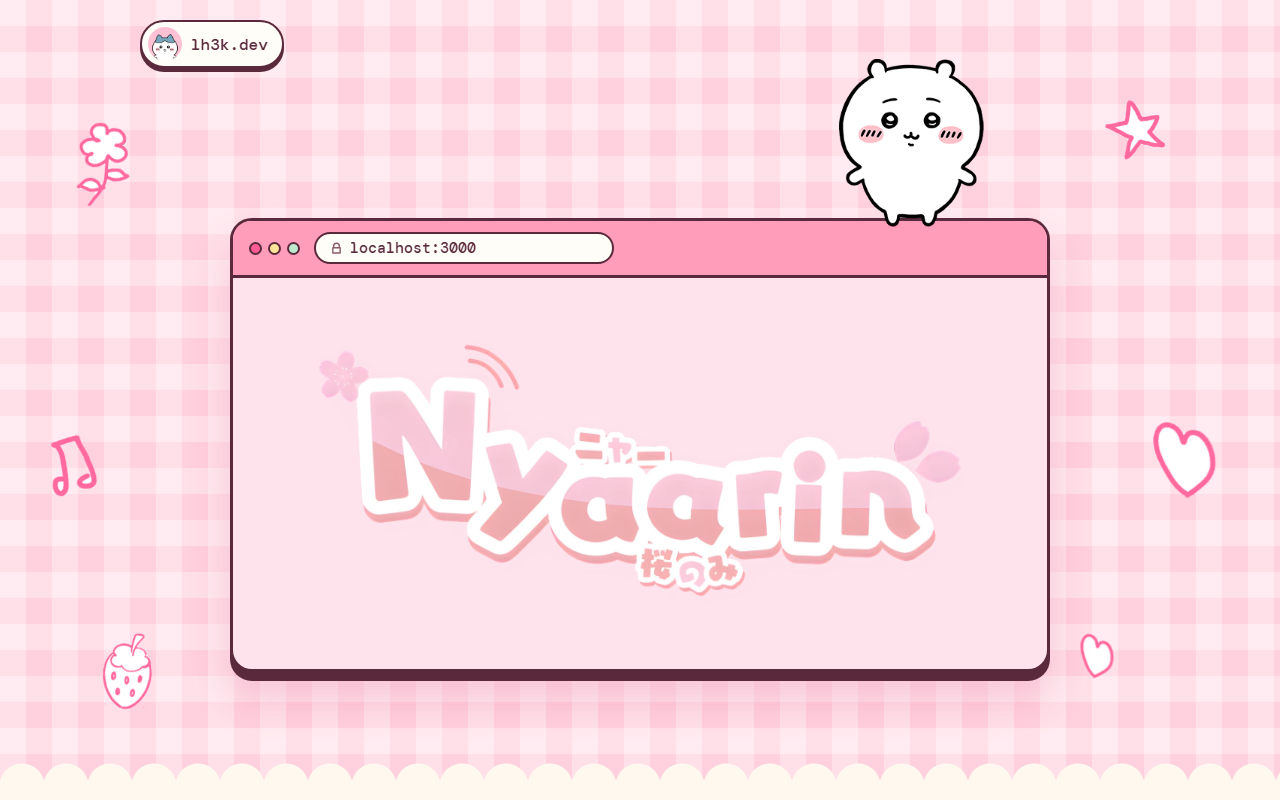
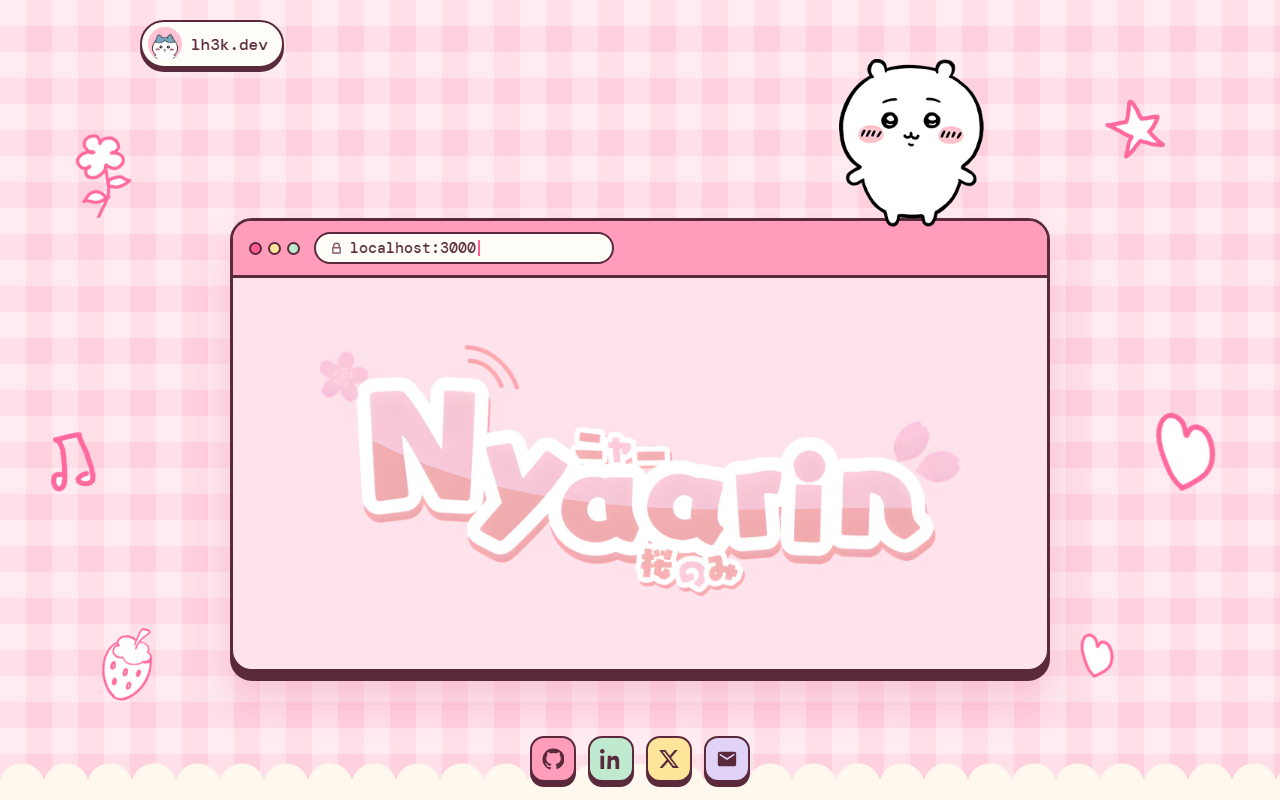
Add where I've worked, and a dock of links that stays on screen
Jobs open like browser tabs in one window. The dock is the sticky icon footer from my old site, in this site's style.

diff --git a/index.html b/index.html
@@ -155,6 +155,87 @@
     <p class="more"><a href="https://github.com/Nyaughh?tab=repositories">Everything else is on GitHub</a></p>
   </section>
 
+  <section class="work" id="work" aria-labelledby="workTitle">
+    <h2 class="title" id="workTitle">Where I've worked</h2>
+    <div class="window jobs" id="jobs">
+      <div class="tabs">
+        <span class="dots" aria-hidden="true"><i></i><i></i><i></i></span>
+        <div class="tablist" role="tablist" aria-labelledby="workTitle">
+          <button type="button" role="tab" id="tab-1" aria-controls="job-1" aria-selected="true">Extraordinary</button>
+          <button type="button" role="tab" id="tab-2" aria-controls="job-2" aria-selected="false" tabindex="-1">Komorebi</button>
+          <button type="button" role="tab" id="tab-3" aria-controls="job-3" aria-selected="false" tabindex="-1">Paragon</button>
+          <button type="button" role="tab" id="tab-4" aria-controls="job-4" aria-selected="false" tabindex="-1">Synthesized Infinity</button>
+        </div>
+      </div>
+      <div class="job" role="tabpanel" id="job-1" aria-labelledby="tab-1">
+        <div class="bar light"><a class="url" href="https://extraordinary.com"><svg viewBox="0 0 16 16" width="13" height="13" aria-hidden="true"><path d="M4.5 7V5a3.5 3.5 0 0 1 7 0v2M3.5 7h9v6.5h-9z" fill="none" stroke="currentColor" stroke-width="1.7" stroke-linejoin="round" stroke-linecap="round"/></svg><span>extraordinary.com</span></a></div>
+        <div class="job-body">
+          <div class="job-head">
+            <p class="job-at">Extraordinary</p>
+            <h3>Software Development Engineer</h3>
+            <p class="when">Sep 2025 – Present</p>
+          </div>
+          <ul>
+            <li>Built features for marketing, legal and invoicing platforms</li>
+            <li>Built automations across platforms with CRM integrations and APIs</li>
+            <li>Improved UI/UX and functionality of the platforms</li>
+          </ul>
+        </div>
+      </div>
+      <div class="job" role="tabpanel" id="job-2" aria-labelledby="tab-2">
+        <div class="bar light"><a class="url" href="https://kmrb.tech"><svg viewBox="0 0 16 16" width="13" height="13" aria-hidden="true"><path d="M4.5 7V5a3.5 3.5 0 0 1 7 0v2M3.5 7h9v6.5h-9z" fill="none" stroke="currentColor" stroke-width="1.7" stroke-linejoin="round" stroke-linecap="round"/></svg><span>kmrb.tech</span></a></div>
+        <div class="job-body">
+          <div class="job-head">
+            <p class="job-at">Komorebi</p>
+            <h3>Founder</h3>
+            <p class="when">Oct 2024 – Present</p>
+          </div>
+          <ul>
+            <li>Komorebi is a software development agency</li>
+            <li>Managed and guided multiple projects for a variety of clients</li>
+            <li>Oversaw the planning and completion of both client and in-house software products</li>
+          </ul>
+        </div>
+      </div>
+      <div class="job" role="tabpanel" id="job-3" aria-labelledby="tab-3">
+        <div class="bar light"><a class="url" href="https://prgn.gg"><svg viewBox="0 0 16 16" width="13" height="13" aria-hidden="true"><path d="M4.5 7V5a3.5 3.5 0 0 1 7 0v2M3.5 7h9v6.5h-9z" fill="none" stroke="currentColor" stroke-width="1.7" stroke-linejoin="round" stroke-linecap="round"/></svg><span>prgn.gg</span></a></div>
+        <div class="job-body">
+          <div class="job-head">
+            <p class="job-at">Paragon</p>
+            <h3>Web Developer</h3>
+            <p class="when">Nov 2024 – Jan 2025</p>
+          </div>
+          <ul>
+            <li>Paragon is the community manager at Discord for VALORANT</li>
+            <li>Planned, designed and developed Valdle, an online game for the VALORANT community</li>
+            <li>Led the team for the website's development and launch</li>
+          </ul>
+        </div>
+      </div>
+      <div class="job" role="tabpanel" id="job-4" aria-labelledby="tab-4">
+        <div class="bar light"><span class="url"><svg viewBox="0 0 16 16" width="13" height="13" aria-hidden="true"><path d="M4.5 7V5a3.5 3.5 0 0 1 7 0v2M3.5 7h9v6.5h-9z" fill="none" stroke="currentColor" stroke-width="1.7" stroke-linejoin="round" stroke-linecap="round"/></svg><span>synthesized infinity</span></span></div>
+        <div class="job-body">
+          <div class="job-head">
+            <p class="job-at">Synthesized Infinity</p>
+            <h3>Software Developer Intern</h3>
+            <p class="when">Jan 2024 – Oct 2024</p>
+          </div>
+          <ul>
+            <li>Contributed to the development of multiple websites</li>
+            <li>Built and released an open source music tracking WhatsApp bot, wa-fm-bot</li>
+          </ul>
+        </div>
+      </div>
+    </div>
+  </section>
+
+  <footer class="dock" aria-label="Find me">
+    <a href="https://github.com/Nyaughh" aria-label="GitHub" style="--c:var(--rose)"><svg viewBox="0 0 24 24" aria-hidden="true"><path d="M12 .5A11.5 11.5 0 0 0 .5 12.3c0 5.2 3.4 9.6 8.1 11.1.6.1.8-.3.8-.6v-2.1c-3.3.7-4-1.4-4-1.4-.6-1.4-1.5-1.8-1.5-1.8-1.2-.8.1-.8.1-.8 1.3.1 2 1.4 2 1.4 1.1 1.9 2.9 1.4 3.6 1.1.1-.8.4-1.4.7-1.8-2.7-.3-5.6-1.4-5.6-6.1 0-1.4.5-2.5 1.3-3.4-.1-.3-.6-1.6.1-3.3 0 0 1-.3 3.4 1.3a11.7 11.7 0 0 1 6.2 0c2.4-1.6 3.4-1.3 3.4-1.3.7 1.7.2 3 .1 3.3.8.9 1.3 2 1.3 3.4 0 4.7-2.9 5.8-5.6 6.1.4.3.8 1 .8 2v3c0 .3.2.7.8.6 4.7-1.5 8.1-5.9 8.1-11.1A11.5 11.5 0 0 0 12 .5Z"/></svg></a>
+    <a href="https://www.linkedin.com/in/aarin-arora-8538b825b" aria-label="LinkedIn" style="--c:var(--mint)"><svg viewBox="0 0 24 24" aria-hidden="true"><path d="M4.98 3.5C4.98 4.9 3.9 6 2.5 6S0 4.9 0 3.5 1.1 1 2.5 1 5 2.1 5 3.5zM.5 8.5h4V23h-4zM8.5 8.5h3.8v2h.1c.5-.9 1.8-2.1 3.8-2.1 4 0 4.7 2.6 4.7 6V23h-4v-6.5c0-1.6 0-3.7-2.3-3.7s-2.7 1.7-2.7 3.6V23h-4z"/></svg></a>
+    <a href="https://x.com/Nyaughh_" aria-label="X (Twitter)" style="--c:var(--butter)"><svg viewBox="0 0 24 24" aria-hidden="true"><path d="M18.244 2.25h3.308l-7.227 8.26 8.502 11.24H16.17l-5.214-6.817L4.99 21.75H1.68l7.73-8.835L1.254 2.25H8.08l4.713 6.231zm-1.161 17.52h1.833L7.084 4.126H5.117z"/></svg></a>
+    <a href="mailto:nyaughh@gmail.com" aria-label="Email" style="--c:#e1d3f7"><svg viewBox="0 0 24 24" aria-hidden="true"><path d="M20 4H4c-1.1 0-1.99.9-1.99 2L2 18c0 1.1.9 2 2 2h16c1.1 0 2-.9 2-2V6c0-1.1-.9-2-2-2zm0 4l-8 5-8-5V6l8 5 8-5v2z"/></svg></a>
+  </footer>
+
 
 
   <script src="/script.js" defer></script>

diff --git a/styles.css b/styles.css
@@ -162,7 +162,7 @@ img { max-width: 100%; height: auto; }
 
 /* ---------- projects ---------- */
 
-.projects { max-width: 1040px; margin: 0 auto; padding: 54px 20px 76px; text-align: center; }
+.projects { max-width: 1040px; margin: 0 auto; padding: 54px 20px 64px; text-align: center; }
 .title {
   margin: 0;
   font: 800 clamp(30px, 5vw, 44px)/1.15 var(--round);
@@ -233,6 +233,116 @@ img.icon { display: block; }
 .links a:hover { text-decoration-color: var(--hot); }
 .more { margin-top: 36px; font-weight: 700; }
 .more a { text-decoration-color: var(--rose); text-decoration-thickness: 2.5px; text-underline-offset: 4px; }
+
+/* ---------- where I've worked: one window, a tab per job ---------- */
+
+.work { max-width: 860px; margin: 0 auto; padding: 10px 20px 104px; text-align: center; }
+.jobs { margin-top: 36px; text-align: left; background: var(--paper); box-shadow: 0 7px 0 var(--ink); }
+.tabs {
+  display: flex;
+  align-items: flex-end;
+  gap: 14px;
+  padding: 10px 14px 0 16px;
+  background: var(--rose);
+  border-radius: 18px 18px 0 0;
+  box-shadow: inset 0 -3px 0 var(--ink);   /* the line the open tab breaks */
+}
+.tabs .dots { align-self: center; margin-bottom: 8px; }
+.tablist { display: flex; gap: 6px; min-width: 0; overflow-x: auto; scrollbar-width: none; }
+.tablist::-webkit-scrollbar { display: none; }
+.tablist button {
+  flex: none;
+  margin: 0 0 3px;
+  padding: 7px 15px 6px;
+  font: 700 15px/1.2 var(--round);
+  color: var(--ink);
+  white-space: nowrap;
+  background: #ffc3d5;
+  border: 2.5px solid var(--ink);
+  border-bottom: 0;
+  border-radius: 12px 12px 0 0;
+  cursor: pointer;
+  transition: background .12s;
+}
+.tablist button:hover { background: #ffd6e2; }
+.tablist button[aria-selected="true"] { margin-bottom: 0; padding-bottom: 9px; background: var(--paper); }
+.tablist button:focus-visible { outline-offset: -5px; }
+
+.bar.light { background: var(--paper); border-bottom: 2.5px dashed var(--line); border-radius: 0; padding: 10px 16px; }
+.bar.light .url { background: var(--cream); text-decoration: none; }
+a.url:hover { background: var(--blush); }
+.job:last-child .job-body { border-radius: 0 0 19px 19px; }
+.job-body {
+  display: grid;
+  grid-template-columns: minmax(0, 5fr) minmax(0, 7fr);
+  gap: 10px 36px;
+  padding: 26px 30px 32px;
+}
+.job-at { font: 500 13px var(--mono); color: var(--soft); }
+.job h3 { margin: 2px 0 10px; font: 800 24px/1.2 var(--round); letter-spacing: -.01em; }
+.when {
+  display: inline-block;
+  padding: 2px 11px 3px;
+  font: 500 13px var(--mono);
+  background: var(--butter);
+  border: 1.5px solid #eccf6c;
+  border-radius: 999px;
+}
+.job ul { margin: 2px 0 0; padding: 0; list-style: none; }
+.job li {
+  padding: 0 0 9px 30px;
+  font-size: 16px;
+  line-height: 1.5;
+  color: #6f4252;
+  background: url(/assets/doodles/heart.png) 0 3px / auto 19px no-repeat;
+}
+.job li:last-child { padding-bottom: 0; }
+/* without the script every job shows, one under the other */
+.job + .job { border-top: 3px solid var(--ink); }
+.jobs.tabbed .job + .job { border-top: 0; }
+
+/* ---------- the dock: stays at the bottom of the screen ---------- */
+
+.dock {
+  position: sticky;
+  bottom: 0;
+  z-index: 50;
+  display: flex;
+  justify-content: center;
+  gap: 12px;
+  padding: 12px 0 18px;
+  pointer-events: none;
+}
+.dock a {
+  display: grid;
+  place-items: center;
+  width: 46px; height: 46px;
+  background: var(--c);
+  border: 2.5px solid var(--ink);
+  border-radius: 14px;
+  box-shadow: 0 5px 0 var(--ink);
+  pointer-events: auto;
+  transition: transform .1s, box-shadow .1s;
+  animation: hop .5s cubic-bezier(.3, 1.6, .5, 1) backwards;
+}
+.dock a:nth-child(2) { animation-delay: .08s; }
+.dock a:nth-child(3) { animation-delay: .16s; }
+.dock a:nth-child(4) { animation-delay: .24s; }
+.dock a:hover { transform: translateY(-3px); box-shadow: 0 8px 0 var(--ink); }
+.dock a:active { transform: translateY(5px); box-shadow: 0 0 0 var(--ink); }
+.dock svg { width: 22px; height: 22px; fill: var(--ink); }
+@keyframes hop { from { transform: translateY(70px); } }
+
+@media (max-width: 720px) {
+  .job-body { grid-template-columns: 1fr; padding: 22px 20px 26px; }
+  .job h3 { font-size: 22px; }
+  .tabs { gap: 10px; padding: 10px 0 0 12px; }
+  .tablist { padding-right: 12px; }
+  .tablist button { padding: 7px 11px 6px; font-size: 14px; }
+  .tablist button[aria-selected="true"] { padding-bottom: 9px; }
+  .tabs .dots { display: none; }
+  .dock a { width: 44px; height: 44px; }
+}
 
 /* ---------- small screens ---------- */
 

diff --git a/script.js b/script.js
@@ -1,5 +1,5 @@
-// lh3k.dev: the address bar types itself, and star counts come from GitHub
-// on each visit.
+// lh3k.dev: the address bar types itself, the jobs open like browser tabs,
+// and star counts come from GitHub on each visit.
 
 const calm = matchMedia('(prefers-reduced-motion: reduce)').matches;
 
@@ -14,6 +14,32 @@ if (addr && !calm) {
     if (i < text.length) setTimeout(type, 55 + Math.random() * 70);
   };
   setTimeout(type, 500);
+}
+
+// ---- where I've worked: one job showing at a time, like browser tabs ----
+const jobs = document.getElementById('jobs');
+if (jobs) {
+  const tabs = [...jobs.querySelectorAll('[role="tab"]')];
+  const open = (tab, focus) => {
+    for (const each of tabs) {
+      const on = each === tab;
+      each.setAttribute('aria-selected', on);
+      each.tabIndex = on ? 0 : -1;
+      document.getElementById(each.getAttribute('aria-controls')).hidden = !on;
+    }
+    if (focus) tab.focus();
+    tab.scrollIntoView({ block: 'nearest', inline: 'nearest' });
+  };
+  jobs.classList.add('tabbed');
+  for (const each of tabs) each.addEventListener('click', () => open(each));
+  jobs.querySelector('[role="tablist"]').addEventListener('keydown', (e) => {
+    const at = tabs.indexOf(document.activeElement);
+    const to = { ArrowRight: at + 1, ArrowLeft: at - 1, Home: 0, End: tabs.length - 1 }[e.key];
+    if (at < 0 || to === undefined) return;
+    e.preventDefault();
+    open(tabs[(to + tabs.length) % tabs.length], true);
+  });
+  for (const each of tabs.slice(1)) document.getElementById(each.getAttribute('aria-controls')).hidden = true;
 }
 
 // ---- live star counts ----
